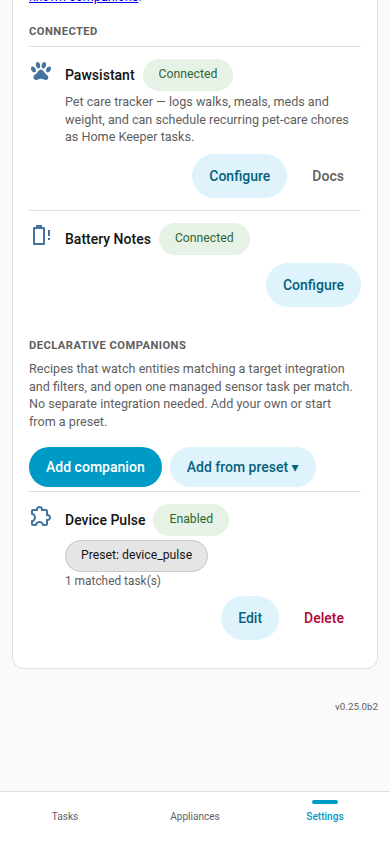
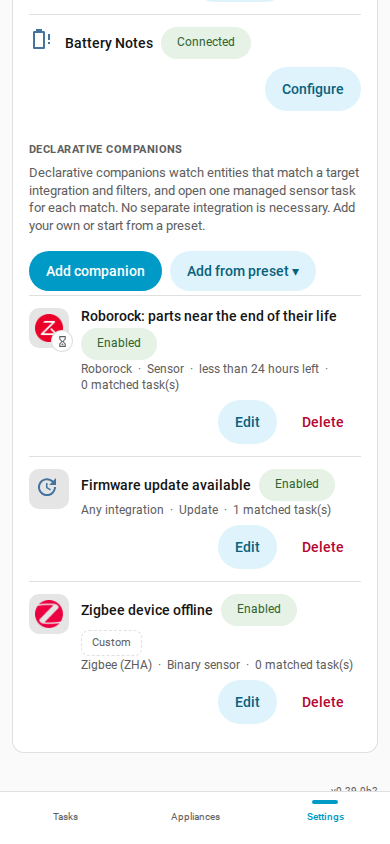
Name the entity platforms and refresh the companion row shots
The panel names the 5 platforms the companion form offers in the panel
language, because Home Assistant does not load their titles in a panel.
The dot in the meta line now ends a part, so a wrapped line never starts
with it. The screenshots show 3 rows: an integration preset, a general
preset and a custom companion.

Claude-Session: https://claude.ai/code/session_016jLaKXusP9p1GZ9rFRa5T6

diff --git a/custom_components/home_keeper/frontend/test/i18n-parity.test.js b/custom_components/home_keeper/frontend/test/i18n-parity.test.js
@@ -55,16 +55,20 @@ const INTENTIONALLY_IDENTICAL = new Set([
 // `declarative.companions.chip_error` is "Error" in Catalan and Spanish, which take
 // the Latin noun unchanged. Every other locale inflects or translates it ("Errore",
 // "Erreur", "Fehler", "Chyba", "Virhe", "Fout", "Błąd", "Feil", "Fel", "Ошибка").
+// `declarative.companions.platform.sensor` is "Sensor" in the Germanic, Polish and
+// Ibero-Romance locales, and Home Assistant itself names the platform so there.
+// `platform.update` is "Update" in Dutch, which takes the English word.
 const DECLARATIVE_COGNATES = {
   ca: [
     'declarative.companions.chip_error',
+    'declarative.companions.platform.sensor',
     'declarative.companions.section_exclusions',
     'declarative.companions.summary_exclusions.other',
     'transfer.documentLabel',
   ],
-  da: ['declarative.companions.summary_filters.one'],
-  de: ['declarative.companions.field_name'],
-  es: ['declarative.companions.chip_error'],
+  da: ['declarative.companions.platform.sensor', 'declarative.companions.summary_filters.one'],
+  de: ['declarative.companions.field_name', 'declarative.companions.platform.sensor'],
+  es: ['declarative.companions.chip_error', 'declarative.companions.platform.sensor'],
   fr: [
     'declarative.companions.field_description',
     'declarative.companions.section_exclusions',
@@ -73,15 +77,19 @@ const DECLARATIVE_COGNATES = {
     'field.skipNote',
     'transfer.documentLabel',
   ],
-  nb: ['declarative.companions.summary_filters.one'],
+  nb: ['declarative.companions.platform.sensor', 'declarative.companions.summary_filters.one'],
   nl: [
+    'declarative.companions.platform.sensor',
+    'declarative.companions.platform.update',
     'declarative.companions.section_trigger',
     'declarative.companions.summary_filters.one',
     'declarative.companions.summary_filters.other',
     'defer.preset.1w',
     'transfer.documentLabel',
   ],
-  sv: ['declarative.companions.summary_filters.one'],
+  sv: ['declarative.companions.platform.sensor', 'declarative.companions.summary_filters.one'],
+  pl: ['declarative.companions.platform.sensor'],
+  'pt-BR': ['declarative.companions.platform.sensor'],
 };
 
 const COGNATE_IDENTICAL = {

diff --git a/custom_components/home_keeper/frontend/test/panel-declarative-row.test.js b/custom_components/home_keeper/frontend/test/panel-declarative-row.test.js
@@ -114,14 +114,28 @@ describe('declarativeRow', () => {
     expect(el.querySelector('.hk-decl-custom').textContent).toBe('Custom');
     expect(el.querySelector('.hk-decl-shape')).toBeNull();
     expect(el.querySelector('img.hk-decl-logo').dataset.fallbackIcon).toBe('mdi:puzzle-outline');
-    // No title for the platform: the raw id stands in.
-    expect(meta(el)).toEqual(['Zigbee Home Automation', 'binary_sensor', '2 matched task(s)']);
+    expect(meta(el)).toEqual(['Zigbee Home Automation', 'Binary sensor', '2 matched task(s)']);
   });
 
   it('falls back to the domain when Home Assistant has no title or no localize', () => {
     const spec = { ...SPEC, preset_id: null, selection: { ...SELECTION, target_integration: 'my_hacs' } };
     expect(meta(render(spec, host({ _hass: undefined })))[0]).toBe('my_hacs');
-    expect(meta(render(spec, host({ _hass: {} })))).toEqual(['my_hacs', 'sensor', '2 matched task(s)']);
+    expect(meta(render(spec, host({ _hass: {} })))).toEqual(['my_hacs', 'Sensor', '2 matched task(s)']);
+  });
+
+  it('names a platform the panel has no name for from Home Assistant, else by its id', () => {
+    const spec = { ...SPEC, selection: { ...SELECTION, domain: 'lock' } };
+    const p = host({ _hass: { localize: (key) => ({ 'component.lock.title': 'Lock' })[key] ?? '' } });
+    expect(meta(render(spec, p))[1]).toBe('Lock');
+    expect(meta(render(spec, host({ _hass: {} })))[1]).toBe('lock');
+  });
+
+  it('names each platform the form offers in the panel language', () => {
+    setLanguage('de');
+    const names = ['binary_sensor', 'sensor', 'update', 'switch', 'number'].map(
+      (domain) => meta(render({ ...SPEC, selection: { ...SELECTION, domain } }))[1],
+    );
+    expect(names).toEqual(['Binärsensor', 'Sensor', 'Aktualisierung', 'Schalter', 'Zahl']);
   });
 
   it('shows the preset icon and "Any integration" when there is no target integration', () => {

diff --git a/custom_components/home_keeper/frontend/src/panel-declarative.ts b/custom_components/home_keeper/frontend/src/panel-declarative.ts
@@ -303,6 +303,22 @@ const SHAPE_BADGES: Record<string, { icon: string; key: string }> = {
 /** The icon a companion row shows when it has no integration logo. */
 const COMPANION_ICON = 'mdi:puzzle-outline';
 
+/** The name of each entity platform the companion form offers, in the panel language. */
+const PLATFORM_NAMES: Record<string, string> = {
+  binary_sensor: 'declarative.companions.platform.binary_sensor',
+  sensor: 'declarative.companions.platform.sensor',
+  update: 'declarative.companions.platform.update',
+  switch: 'declarative.companions.platform.switch',
+  number: 'declarative.companions.platform.number',
+};
+
+/** The name of entity platform *domain*. Home Assistant does not load the titles of
+ *  the entity platforms in a panel, so the panel has its own for the common ones. */
+function platformName(p: PanelHost, domain: string): string {
+  const key = PLATFORM_NAMES[domain];
+  return key ? t(key) : integrationTitle(p, domain);
+}
+
 /** Home Assistant's title for *domain* (`component.<domain>.title`), else *domain*. */
 function integrationTitle(p: PanelHost, domain: string): string {
   return p._hass?.localize?.(`component.${domain}.title`) || domain;
@@ -337,7 +353,7 @@ export function declarativeRow(p: PanelHost, spec: DeclarativeCompanion): string
     : t('declarative.companions.any_integration');
   const meta = [
     source,
-    origin.platform ? integrationTitle(p, origin.platform) : '',
+    origin.platform ? platformName(p, origin.platform) : '',
     origin.limitText ?? '',
     t('declarative.companions.matches', { count: String(count) }),
   ]

diff --git a/custom_components/home_keeper/frontend/src/preset-summary.ts b/custom_components/home_keeper/frontend/src/preset-summary.ts
@@ -64,7 +64,7 @@ export function companionOrigin(
   const preset = presetFor(spec, presets);
   const domain = spec.selection.target_integration || null;
   const kin = domain
-    ? (presets ?? []).find((p) => p.requires_integration === domain && p.brand)
+    ? presets?.find((p) => p.requires_integration === domain && p.brand)
     : undefined;
   const sameTrigger =
     !!preset &&
@@ -75,7 +75,7 @@ export function companionOrigin(
     brand: preset?.brand || kin?.brand || null,
     shape: preset?.shape || null,
     platform: spec.selection.domain || null,
-    limitText: (sameTrigger && preset?.limit_text) || null,
+    limitText: sameTrigger ? preset.limit_text || null : null,
     icon: preset?.icon || null,
     custom: !spec.preset_id,
   };

diff --git a/custom_components/home_keeper/frontend/src/panel-styles.ts b/custom_components/home_keeper/frontend/src/panel-styles.ts
@@ -2291,7 +2291,8 @@ export const STYLES = `
     display: flex; flex-wrap: wrap; column-gap: 6px; row-gap: 2px; margin-top: 2px;
     color: var(--hk-ink-2); font-size: 0.85rem;
   }
-  .hk-decl-meta > span + span::before { content: "·"; margin-right: 6px; }
+  /* The dot goes after a part, so a line that wraps ends with it and never starts with it. */
+  .hk-decl-meta > span:not(:last-child)::after { content: "·"; margin-left: 6px; }
   .hk-decl-custom {
     display: inline-flex; align-items: center; height: 24px; padding: 0 10px;
     border: 1px dashed var(--hk-line); border-radius: var(--hk-r-btn);

diff --git a/docs/guide/views/settings.md b/docs/guide/views/settings.md
@@ -161,7 +161,7 @@ The row shows where the companion comes from:
   number of tasks. The limit shows only while the trigger is the same as in the preset.
 - **Custom chip.** You made the companion yourself, and no preset made it.
 
-![A declarative companion row in Settings, Companions: the integration logo with a badge, the name with its Enabled chip, a line with the integration, platform, limit and task count, then Edit and Delete](../../images/21h-panel-declarative-row-actions.png)
+![Declarative companion rows in Settings, Companions. Each row has the integration logo with a badge, the name and its chips, and a line with the integration, platform, limit and task count. Edit and Delete are at the right](../../images/21h-panel-declarative-row-actions.png)
 
 ![The same row on a phone, with Edit and Delete on a line under the name](../../images/21i-panel-mobile-declarative-row.png)
 

diff --git a/docs/design/companions-presets.md b/docs/design/companions-presets.md
@@ -16,7 +16,7 @@ implements:
   - custom_components/home_keeper/frontend/src/preset-summary.ts
   - custom_components/home_keeper/frontend/src/panel-preset-nudge.ts
 related: [sensor-tasks, store, events-api, transfer, frontend]
-source_hash: 6213d9e30b0f
+source_hash: f0f10c9551be
 ---
 
 # Companions and presets

diff --git a/docs/design/frontend.md b/docs/design/frontend.md
@@ -30,7 +30,7 @@ implements:
   - custom_components/home_keeper/card_resource.py
   - custom_components/home_keeper/backend_i18n.py
 related: [architecture, coordinator-entities, events-api, profiles-notifications]
-source_hash: 348f0152b6dc
+source_hash: fbdc7005785e
 ---
 
 # Frontend
